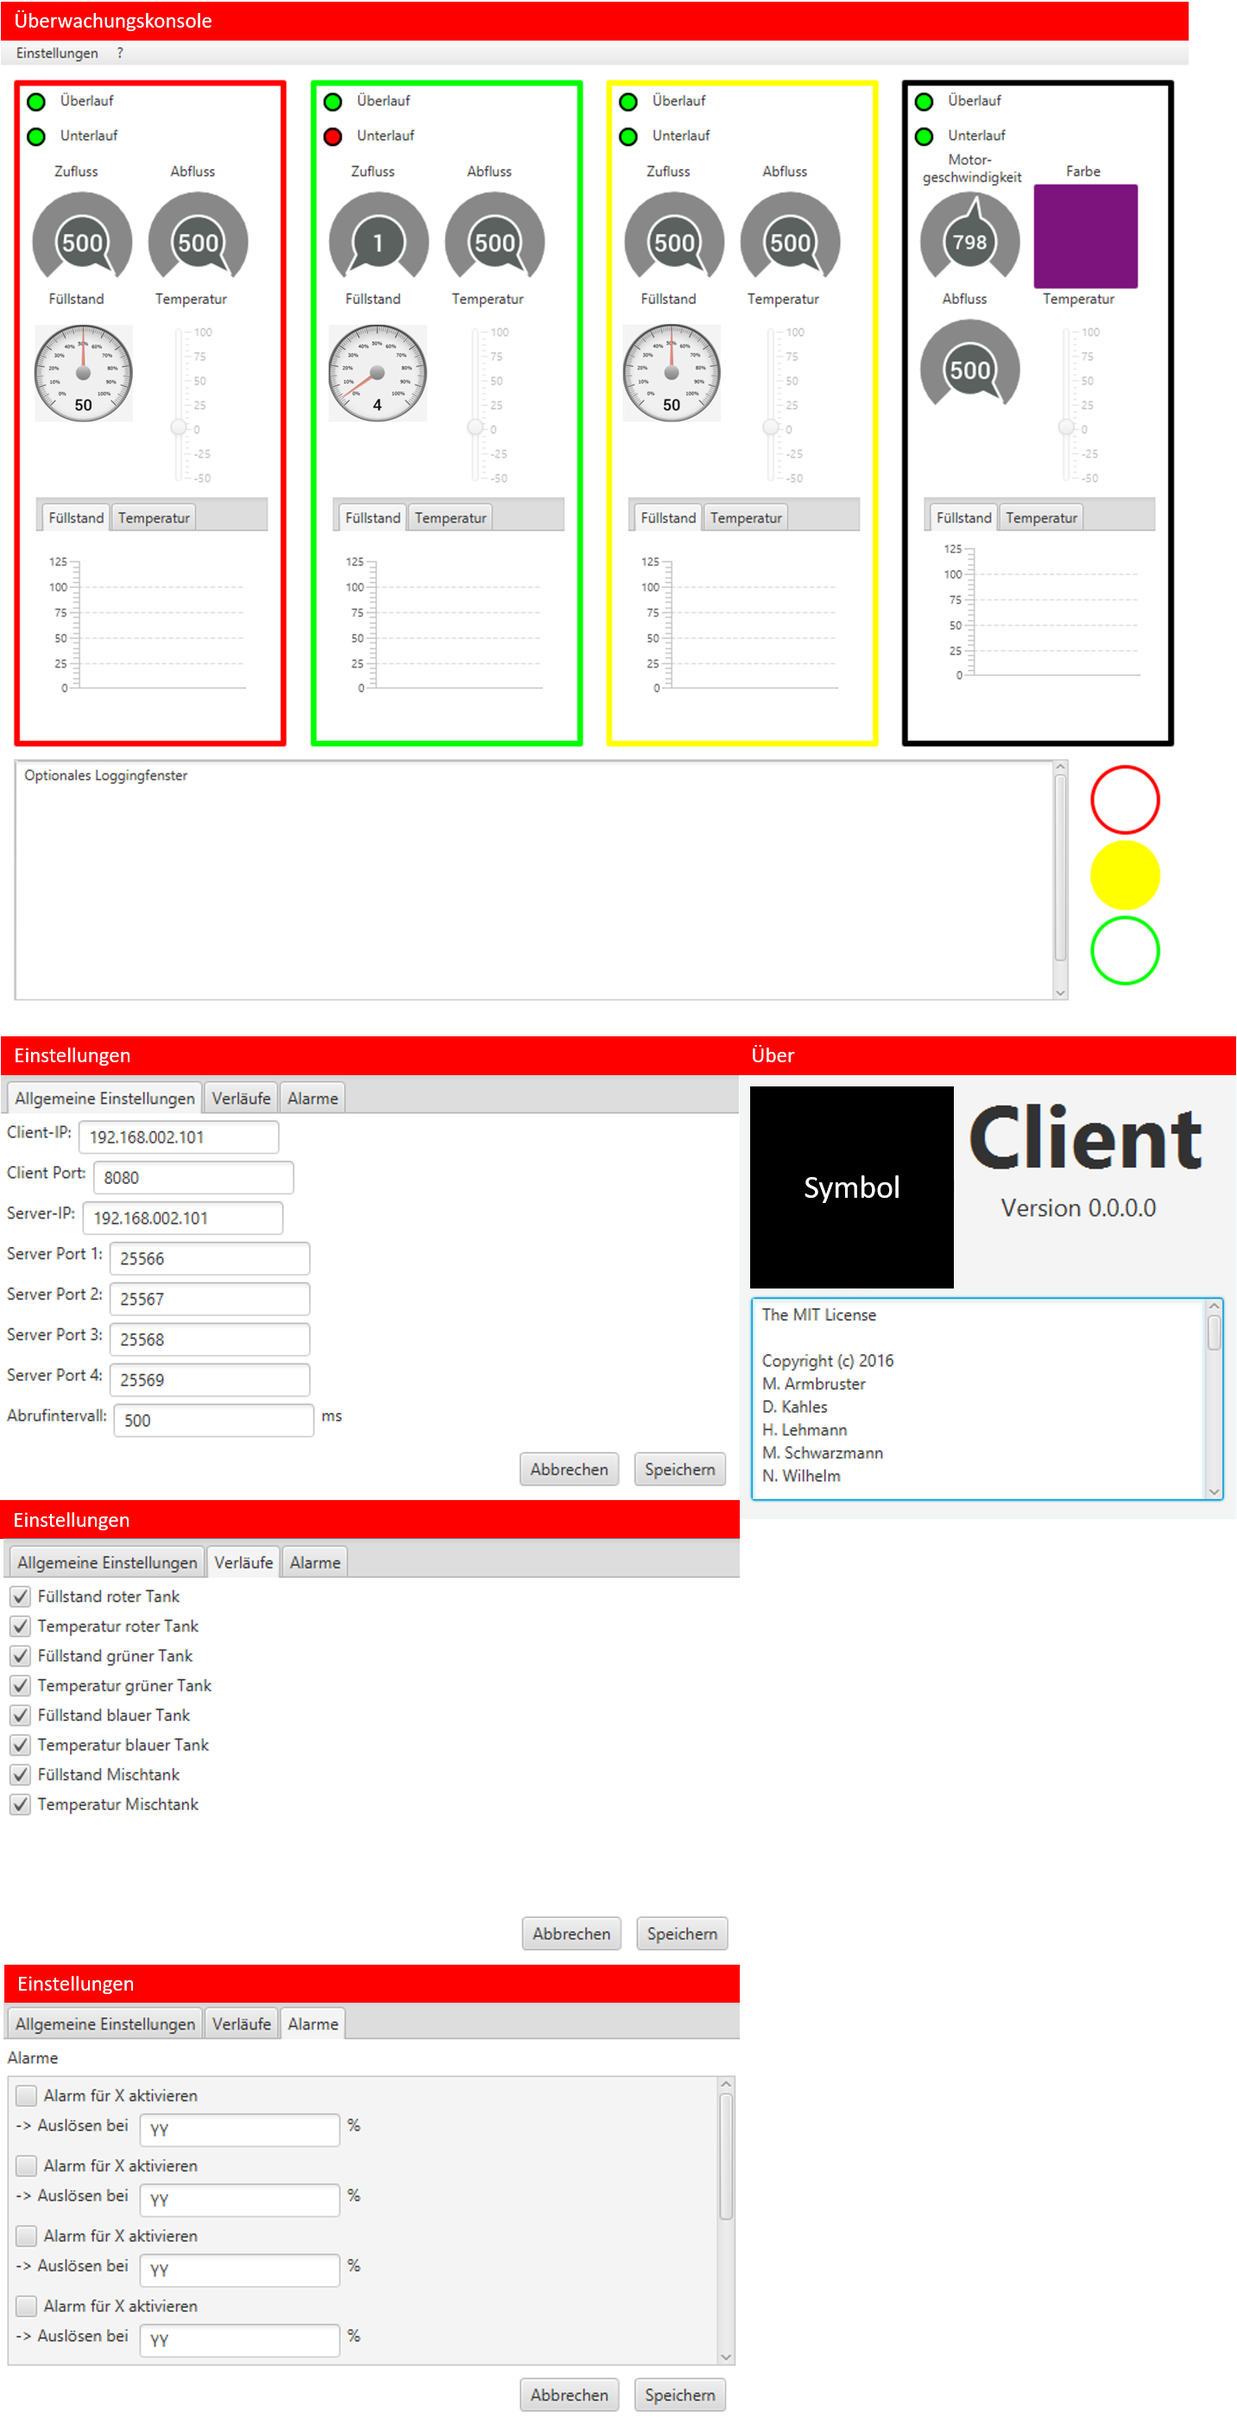
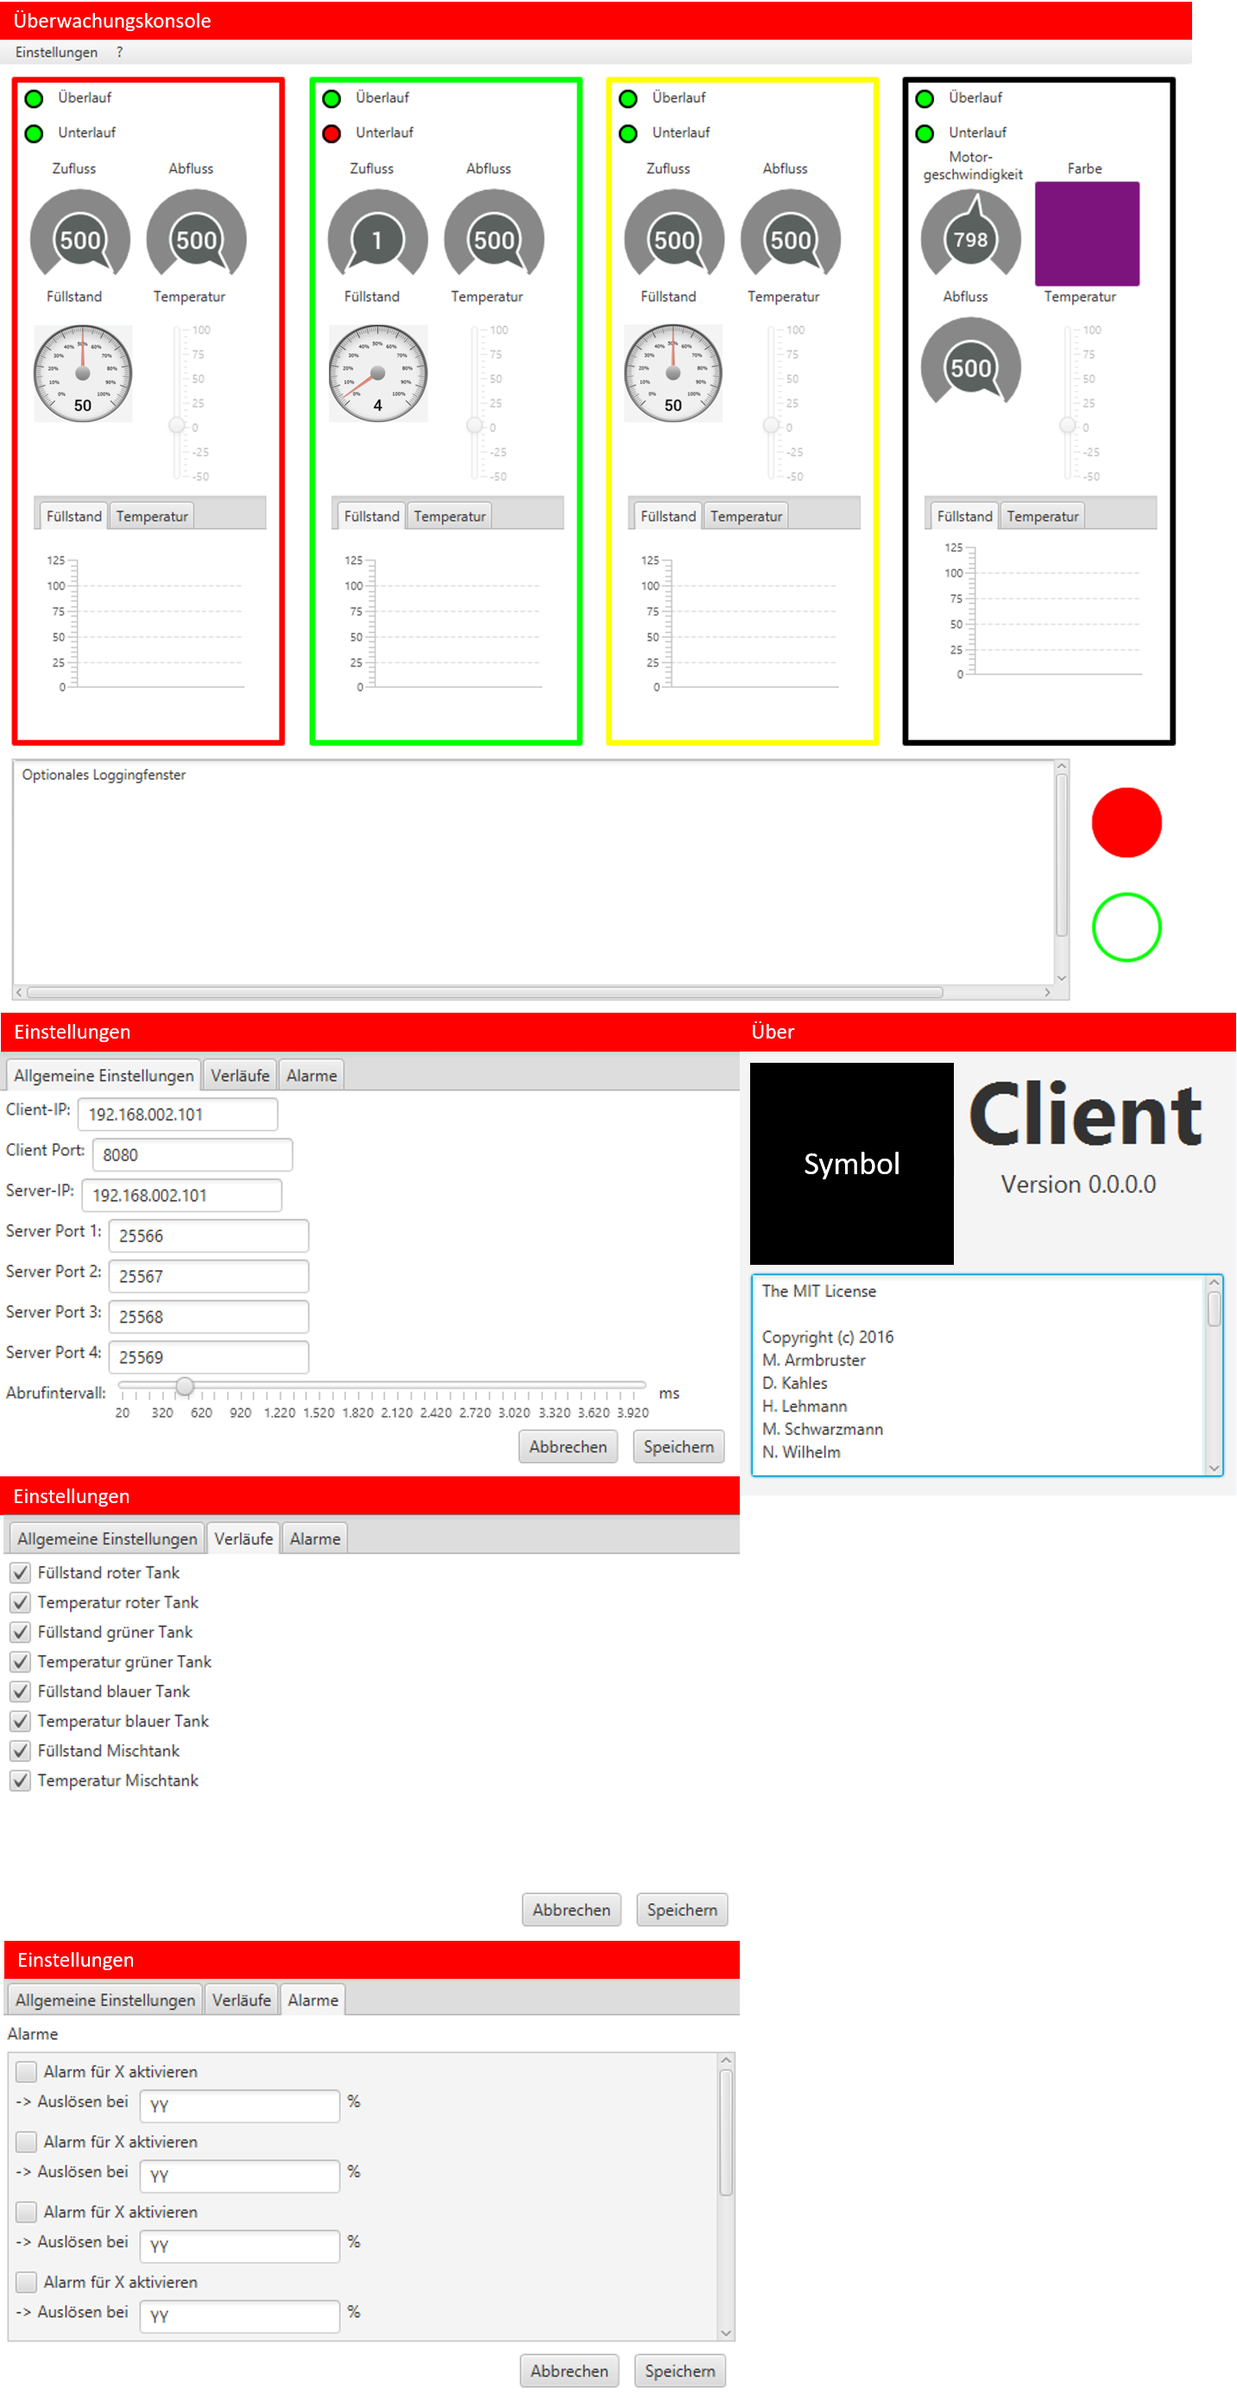
[doc] Changes for a more consistent specification.

diff --git a/docs/Pflichtenheft.tex b/docs/Pflichtenheft.tex
@@ -175,7 +175,7 @@ Diese Parameter werden durch Schieberegler eingestellt.
 \item[FA360] Schlägt die Verbindung von [FA350] oder [FA600] fehl, wird der Benutzer über einen Dialog informiert.
 \item[FA370] Alle angezeigten \glspl{Sensordatum} werden mit einer eingestellten, festen Frequenz aktualisiert.
 \item[FA380] Alarme mit ihrem jeweiligen Auslöser können bei der Fertigungssimulation registriert werden.
-\item[FA390] Alarme werden mit den Aktualisierungen der Werte empfangen.
+\item[FA390] Alarme werden asynchron zu den Sensorwerten empfangen und direkt angezeigt, sobald sie ausgelöst werden.
 \end{enumerate}
 
 \subsubsection{GUI Darstellung}
@@ -192,11 +192,16 @@ Diese Parameter werden durch Schieberegler eingestellt.
 \item[FA490] Die \gls{Uberwachungskonsole} registriert für jeden Tank jeweils einen Alarm für einen Überlauf.
 \item[FA500] Die \gls{Uberwachungskonsole} registriert für jeden Tank jeweils einen Alarm für einen Unterlauf.
 \item[FA510] Ein Alarm wird durch einen Bezeichner und einen Kreis als Zustandssymbol dargestellt.
-\item[FA520] Ist der Kreis rot, wurde der Alarm ausgelöst. Ist der Kreis grün, ist der Alarm nicht ausgelöst.
-\item[FA530] Die \gls{Uberwachungskonsole} bietet eine Menübar mit den Punkten "`Datei"', das den Untermenüpunkt "`Einstellungen"' beinhaltet, und "`?"', das den Untermenüpunkt "`Über"' beinhaltet.
-\item[FA540] "`? $\rightarrow$ Über"' öffnet ein neues Fenster, in dem der Programmname, die Version, das Programmsymbol und die Lizenz angezeigt werden.
-\item[FA550] "`Datei $\rightarrow$ Einstellungen"' öffnet ein separates Fenster, in dem alle Einstellungen in einem Reiter "`Allgemeine Einstellungen"' vorgenommen werden können.
-\item[FA560] In den Einstellungen werden die IP-Adresse des OPC UA Clients und der OPC UA Server sowie deren Ports angezeigt.
+\item[FA520] Ist der Kreis rot, wurde der Alarm ausgelöst.
+\item[FA530] Ist der Kreis grün, ist der Alarm nicht ausgelöst.
+\item[FA540] Ein Alarm wird als ausgelöst angezeigt, nachdem die \gls{Uberwachungskonsole} durch die \gls{Fertigungssimulation} darüber benachrichtigt wurde und bis der Alarm in der \gls{Fertigungssimulation} nicht mehr aktiv ist und die \gls{Uberwachungskonsole} darüber informiert wurde.
+\item[FA550] Es gibt eine zweistufige Ampel für den allgemeinen Zustand der \gls{Uberwachungskonsole}.
+\item[FA560] Ist die Ampel rot, wurde mindestens ein Alarm ausgelöst.
+\item[FA570] Ist die Ampel grün, wurde kein Alarm ausgelöst.
+\item[FA580] Die \gls{Uberwachungskonsole} bietet eine Menüleiste mit den Punkten "`Datei"', das den Untermenüpunkt "`Einstellungen"' beinhaltet, und "`?"', das den Untermenüpunkt "`Über"' beinhaltet.
+\item[FA590] "`? $\rightarrow$ Über"' öffnet ein neues Fenster, in dem der Programmname, die Version, das Programmsymbol und die Lizenz angezeigt werden.
+\item[FA600] "`Datei $\rightarrow$ Einstellungen"' öffnet ein separates Fenster, in dem alle Einstellungen in einem Reiter "`Allgemeine Einstellungen"' vorgenommen werden können.
+\item[FA610] In den Einstellungen werden die IP-Adresse des OPC UA Clients und der OPC UA Server sowie deren Ports angezeigt.
 \end{enumerate}
 
 \subsubsection{Benutzerinteraktion}
@@ -215,7 +220,7 @@ Diese Parameter werden durch Schieberegler eingestellt.
 \item[FA630] Es gibt ein \gls{Dockerimage} zur einfachen Verteilung und isolierten Ausführung der \gls{Uberwachungskonsole}.
 \item[FA640] Bereits registrierte Alarme können wieder gelöscht werden.
 \item[FA650] Das Einstellungsfenster wird um zwei Reiter, "`Verläufe"' und "`Alarme"' erweitert.
-\item[FA660] In den "`Allgemeinen Einstellungen"' ist es dem Nutzer möglich, das Zeitintervall für die Aktualisierung der Werte einzugeben.
+\item[FA660] In den "`Allgemeinen Einstellungen"' ist es dem Nutzer möglich, das Zeitintervall für die Aktualisierung der Werte über einen Schieberegler oder eine Textbox einzustellen.
 \item[FA670] Unter "`Verläufe"' ist es möglich, jede Aufnahme des zeitlichen Verlaufs eines Wertes ein und aus zu schalten.
 \item[FA680] In "`Alarme"' kann der Nutzer die verfügbaren Alarme ein- und ausschalten und deren Schwellenwerte festlegen.
 \item[FA690] Es gibt eine Loggingkonsole in Form einer mehrzeiligen Textausgabe.
@@ -295,11 +300,9 @@ sich die von der Überwachungskonsole angezeigten Werte für Zu- und Abfluss mit
 Farbe im Zielcontainer ändert sich langsam, während sich das Mischungsverhältnis der Flüssigkeiten ändert. Auch diese
 Werte werden in der Überwachungskonsole jeweils aktualisiert.
 
-Als nächstes navigiert Manuel in das Einstellungsmenü seines Clients. Dort geht er in den Punkt ``Empfangene Daten'' und
-wählt zusätzlich zu den bisher angezeigten Werten noch die Kategorien ``Füllstand'' und ``Motordrehzahl'' beim unteren Tank
-an. Nach einem Klick auf ``Übernehmen'' sehen die beiden, wie in der Überwachungskonsole neue Anzeigen aufgetaucht sind,
-die die neuen Werte darstellen. Außerdem entsteht ein neuer Reiter bei der Überwachungsanzeige des unteren Tanks,
-in dem Philipp den Füllstandsverlauf ansehen kann.
+Als nächstes betrachten die beiden, wie sich in der Überwachungskonsole die Anzeigen für den Füllstand und die Motorgeschwindigkeit des unteren Tankes ändern.
+Außerdem verweist Manuel auf Reiter unterhalb der Überwachungsanzeigen der Tanks,
+in denen Philipp die Füllstands- und Temperaturverläufe ansehen kann.
 
 Philipp merkt nun an, dass ihm die Flexibilität der empfangenen Daten sehr gefällt. Das Aktualisierungsintervall von
 einer Sekunde sei aber in manchen der Fertigungsprozesse zu lang, da in manchen kritischen Zuständen sehr schnell
@@ -313,9 +316,9 @@ zwar gut funktioniert, eine wirkliche \"Uberwachung aber noch einen \gls{Wrapper
 um ungew\"ohnliche Zust\"ande in der Fertigung automatisch zu bemerken und darauf aufmerksam zu machen.
 Manuel merkt an, dass das ein guter Einwand ist und dass OPC UA auch daf\"ur eine passende Funktionalit\"at besitzt.
 
-Er \"offnet das Einstellungsmen\"u der \"Uberwachungskonsole und erstellt einen neuen Alarm. Um die Flexibilit\"at
-von OPC UA erneut zu demonstrieren fragt er Philipp, welchen Zustand er gerne abfangen w\"urde. Philipp w\"urde gerne
-abfangen, wenn ein Tank \"uberzulaufen droht. Er schl\"agt daf\"ur als Grenze einen F\"ullstand von 95\% vor.
+Er \"offnet das Einstellungsmen\"u der \"Uberwachungskonsole und ruft den Reiter "`Alarme"'. Um die Flexibilit\"at
+von OPC UA erneut zu demonstrieren, fragt er Philipp, welchen vorhandenen Zustand er gerne abfangen w\"urde. Philipp möchte gerne
+wissen, wenn ein Tank \"uberzulaufen droht. Er schl\"agt daf\"ur als Grenze einen F\"ullstand von 95\% vor.
 Manuel gibt also in der \"Uberwachungskonsole 95\% als Grenze an und w\"ahlt einen Tank, f\"ur den der Alarm stattfinden soll.
 Dann speichert er die neuen Einstellungen.
 
@@ -323,8 +326,8 @@ Anschlie{\ss}end dreht er in der Fertigungssimulation den Zufluss des entspreche
 zu steigen beginnt. In der Fertigungssimulation ist der steigende F\"ullstand zu sehen, in der \"Uberwachungskonsole werden
 steigende Werte angezeigt.
 Darauf wird der F\"ullstand von 95\% erreicht und in der \"Uberwachungskonsole der Alarm ausgel\"ost. Manuel
-beschlie{\ss}t, nicht zu handeln und der Tank l\"auft \"uber. Danach w\"ahlt Philipp in den Einstellungen der
-Fertigungssimulation die Option ``zur\"ucksetzen'' woraufhin wieder die Standardkonfiguration angezeigt wird.
+beschlie{\ss}t, nicht zu handeln, und der Tank l\"auft \"uber. Danach w\"ahlt Philipp in den Einstellungen der
+Fertigungssimulation die Option ``zur\"ucksetzen'', woraufhin wieder die Standardkonfiguration angezeigt wird.
 
 \subsection{Anwendungsfälle}
 \subsubsection{Änderung der Zu-/Abflussgeschwindigkeit}
@@ -345,21 +348,24 @@ Fertigungssimulation die Option ``zur\"ucksetzen'' woraufhin wieder die Standard
  \item [Nichtfunktionale Anforderungen] Der geänderte Zu- oder Abflusswert wird mit der nächsten Aktualisierung auf der Überwachungskonsole angezeigt.
 \end{description}
 
-\subsubsection{Änderung der angezeigten Sensorwerte}
-\begin{description}
- \item[Name] Hinzuwählen oder Abwählen von \glspl{Sensordatum}, die in der \gls{GUI} angezeigt werden.
- \item[Akteure] Manuel (Bediener der Software)
- \item[Eingangsbedingung] Die Fertigungssimulation und die Überwachungskonsole sind in Betrieb und miteinander verbunden.
- \item[Ereignisfluss]~\\
- \begin{itemize}[noitemsep]
-  \item Manuel öffnet in der Überwachungskonsole die Einstellungen.
-  \item Ein neues Fenster erscheint. Manuel navigiert in den Reiter ``Empfangene Daten''.
-  \item Manuel klickt auf die Haken in der Liste, um Sensorwerte hinzuzufügen oder auszublenden.
-  \item Manuel klickt den ``OK'' Knopf.
- \end{itemize}
- \item[Ausgangssituation] Die \glspl{Sensordatum}, deren Haken entfernt wurden, werden sofort ausgeblendet. Die \glspl{Sensordatum}, deren Haken hinzugefügt wurden, erscheinen sofort in der \gls{GUI}.
- \item [Nichtfunktionale Anforderungen] Die geänderten Einstellungen werden binnen einer halben Sekunde in der \gls{GUI} dargestellt.
-\end{description}
+%
+% Diese Funktionalität ist im Moment nicht vorgesehen.
+%
+%\subsubsection{Änderung der angezeigten Sensorwerte}
+%\begin{description}
+% \item[Name] Hinzuwählen oder Abwählen von \glspl{Sensordatum}, die in der \gls{GUI} angezeigt werden.
+% \item[Akteure] Manuel (Bediener der Software)
+% \item[Eingangsbedingung] Die Fertigungssimulation und die Überwachungskonsole sind in Betrieb und miteinander verbunden.
+% \item[Ereignisfluss]~\\
+% \begin{itemize}[noitemsep]
+%  \item Manuel öffnet in der Überwachungskonsole die Einstellungen.
+%  \item Ein neues Fenster erscheint. Manuel navigiert in den Reiter ``Empfangene Daten''.
+%  \item Manuel klickt auf die Haken in der Liste, um Sensorwerte hinzuzufügen oder auszublenden.
+%  \item Manuel klickt den ``OK'' Knopf.
+% \end{itemize}
+% \item[Ausgangssituation] Die \glspl{Sensordatum}, deren Haken entfernt wurden, werden sofort ausgeblendet. Die \glspl{Sensordatum}, deren Haken hinzugefügt wurden, erscheinen sofort in der \gls{GUI}.
+% \item [Nichtfunktionale Anforderungen] Die geänderten Einstellungen werden binnen einer halben Sekunde in der \gls{GUI} dargestellt.
+%\end{description}
 
 \subsubsection{Änderung der Aktualisierungsfrequenz}
 \begin{description}
@@ -371,7 +377,7 @@ Fertigungssimulation die Option ``zur\"ucksetzen'' woraufhin wieder die Standard
   \item Manuel öffnet in der Überwachungskonsole die Einstellungen.
   \item Manuel navigiert in den Reiter ``Allgemeine Einstellungen''.
   \item Manuel verschiebt den Schieberegler, der die Aktualisierungsfrequenz einstellt.
-  \item Manuel klickt den ``OK'' Knopf.
+  \item Manuel klickt den ``Speichern'' Knopf.
  \end{itemize}
  \item[Ausgangssituation] Die Sensorwerte in der Überwachungskonsole werden nun in Abständen der gewählten Aktualisierungsfrequenz aktualisiert.
  \item [Nichtfunktionale Anforderungen] Die Frequenz ändert sich spätestens mit der nächsten Aktualisierung.
@@ -393,20 +399,19 @@ Fertigungssimulation die Option ``zur\"ucksetzen'' woraufhin wieder die Standard
  \item[Nichtfunktionale Anforderungen] Die Sensorwerte der Überwachungskonsole werden nach spätestens einer halben Sekunde aktualisiert.
 \end{description}
  
-\subsubsection{Alarm erstellen}
+\subsubsection{Alarm einschalten}
 \begin{description}
- \item[Name] Erstellen eines neuen Alarms in der \gls{Uberwachungskonsole}.
+ \item[Name] Einschalten eines Alarms in der \gls{Uberwachungskonsole}.
  \item[Akteure] Manuel (Bediener der Software)
  \item[Eingangsbedingung] Die \gls{Fertigungssimulation} und die \gls{Uberwachungskonsole} sind in Betrieb und miteinander verbunden.
  \item[Ereignisfluss]~\\
  \begin{itemize}[noitemsep]
   \item Manuel \"offnet in der \gls{Uberwachungskonsole} die Einstellungen.
   \item Manuel navigiert in den Reiter ``Alarme''.
-  \item Manuel klickt den Knopf ``Neuen Alarm erstellen''.
-  \item Manuel w\"ahlt den \gls{OPC UA} Server, zu dem der Alarm geh\"ort.
-  \item Manuel w\"ahlt den Sensor, zu dem der Alarm geh\"ort.
-  \item Manuel erstellt eine Regel zum Ausl\"osen des Alarms.
-  \item Manuel klickt den ``\"Ubernehmen'' Knopf.
+  \item Manuel w\"ahlt den Alarm aus, der eingeschalten werden soll.
+  \item Manuel aktiviert die Checkbox, die zum Alarm gehört.
+  \item Manuel stellt zusätzlich einen Schwellenwert ein oder lässt den aktuell angezeigten.
+  \item Manuel klickt den ``Speichern'' Knopf.
  \end{itemize}
  \item[Ausgangssituation] Wenn der Sensor die Alarmbedingung erf\"ullt, wird an die \gls{Uberwachungskonsole} ein Alarm gesendet.
  \item [Nichtfunktionale Anforderungen] Sp\"atestens nach 100ms ist die Aktualisierung \"ubernommen und wird
@@ -436,39 +441,34 @@ Fertigungssimulation die Option ``zur\"ucksetzen'' woraufhin wieder die Standard
 \begin{description}
  \item[Name] \"Andern eines bereits vorhandenen Alarms in der \gls{Uberwachungskonsole}.
  \item[Akteure] Manuel (Bediener der Software)
- \item[Eingangsbedingung] Die \gls{Uberwachungskonsole} ist in Betrieb. Es ist mindestens ein Alarm bereits vorhanden.
+ \item[Eingangsbedingung] Die \gls{Uberwachungskonsole} ist in Betrieb. Es ist mindestens ein Alarm bereits eingeschalten.
  \item[Ereignisfluss]~\\
  \begin{itemize}[noitemsep]
   \item Manuel \"offnet in der \gls{Uberwachungskonsole} die Einstellungen.
   \item Manuel navigiert in den Reiter ``Alarme''.
-  \item Manuel klickt auf ``Alarme anzeigen''.
-  \item Manuel w\"ahlt den gew\"unschten Alarm an.
-  \item Der Button ``Alarm bearbeiten'' wird klickbar.
-  \item Manuel klickt auf ``Alarm bearbeiten''.
-  \item Manuel tr\"agt die gew\"unschten \"Anderungen ein.
-  \item Manuel klickt auf \"Ubernehmen.
+  \item Manuel w\"ahlt den gew\"unschten Alarm aus.
+  \item Manuel tr\"agt den gew\"unschten Schwellenwert ein.
+  \item Manuel klickt auf "`Speichern"'.
  \end{itemize}
  \item[Ausgangssituation] Die alte Alarmbedingung l\"ost keine Alarme mehr aus. Die neue Alarmbedingung l\"ost Alarme aus.
- \item [Nichtfunktionale Anforderungen] Die ge\"anderte Alarmbedingung ist nach sp\"atestens 500ms plus der Netzwerklatenz \"ubernommen undan
+ \item [Nichtfunktionale Anforderungen] Die ge\"anderte Alarmbedingung ist nach sp\"atestens 500ms plus der Netzwerklatenz \"ubernommen und
   wird an die Fertigungssimulation gesendet.
 \end{description}
 
-\subsubsection{Alarm l\"oschen}
+\subsubsection{Alarm ausschalten}
 \begin{description}
- \item[Name] L\"oschen eines bereits erstellten Alarms.
+ \item[Name] Ausschalten eines eingeschaltenen Alarms.
  \item[Akteure] Manuel (Bediener der Software)
- \item[Eingangsbedingung] Die \"Uberwachungskonsole ist in Betrieb. Es ist mindestens ein Alarm bereits vorhanden.
+ \item[Eingangsbedingung] Die \"Uberwachungskonsole ist in Betrieb. Es ist mindestens ein Alarm bereits eingeschalten.
  \item[Ereignisfluss]~\\
  \begin{itemize}[noitemsep]
   \item Manuel \"offnet in der \"Uberwachungskonsole die Einstellungen.
   \item Manuel navigiert in den Reiter ``Alarme''.
-  \item Manuel klickt auf ``Alarme anzeigen''.
-  \item Manuel w\"ahlt alle gew\"unschten Alarme.
-  \item Manuel klickt auf ``Alarme l\"oschen''.
-  \item Manuel klickt im folgenden Dialog auf ``Best\"atigen''.
+  \item Manuel deaktiviert die Checkbox aller gew\"unschten Alarme.
+  \item Manuel klickt auf ``Speichern''.
  \end{itemize}
  \item[Ausgangssituation] Die alten Alarmbedingungen l\"osen keine Alarme mehr aus.
- \item [Nichtfunktionale Anforderungen] Die L\"oschung der Alarme wird nach sp\"atestens 100ms plus der Aktualisierungsfrequenz an die Fertigungssimulation \"ubermittelt.
+ \item [Nichtfunktionale Anforderungen] Das Ausschalten der Alarme wird nach sp\"atestens 100ms an die Fertigungssimulation \"ubermittelt.
 \end{description}
 
 \subsubsection{Anwendungsfalldiagramm}
@@ -486,7 +486,7 @@ Fertigungssimulation die Option ``zur\"ucksetzen'' woraufhin wieder die Standard
 \subsection{Fertigungssimulation}
 \includegraphics[scale=0.5]{media/ui-sketch-server.png}
 \subsection{Überwachungskonsole}
-\includegraphics[scale=0.45]{media/ui-client.png}
+\includegraphics[scale=0.40]{media/ui-client.png}
 
 \section{Anhang}
 \subsection{3D-Darstellung der Fertigungssimulation}
